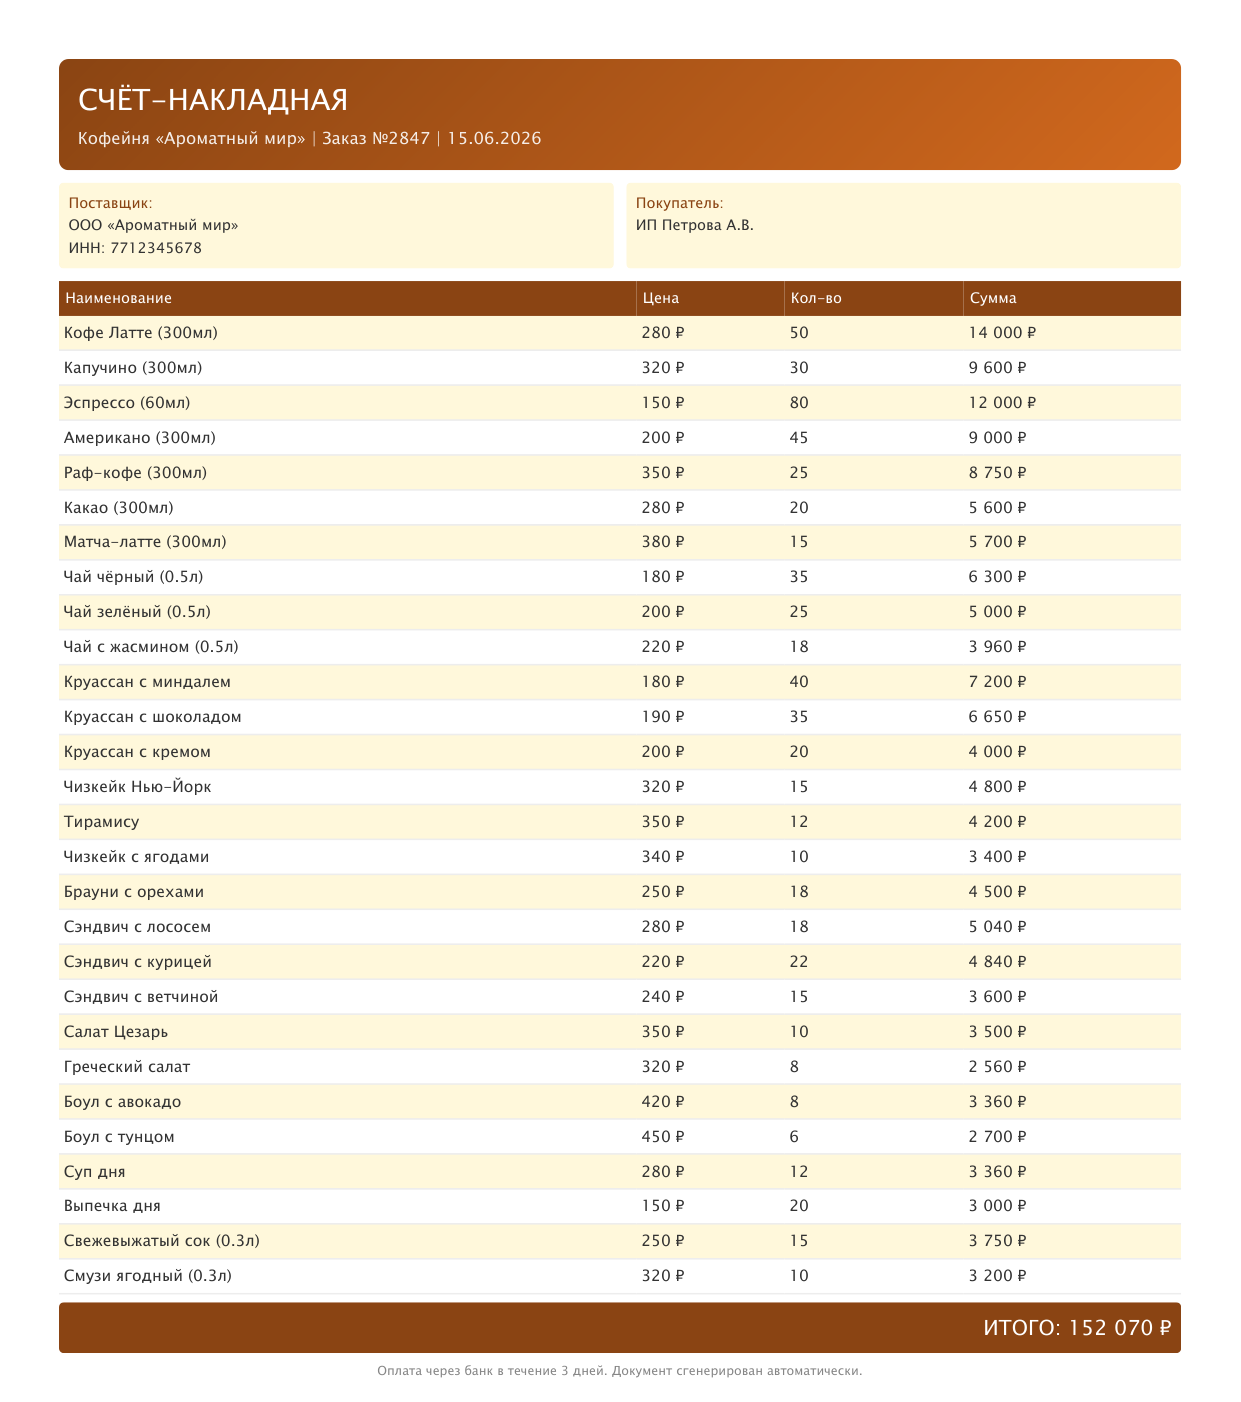
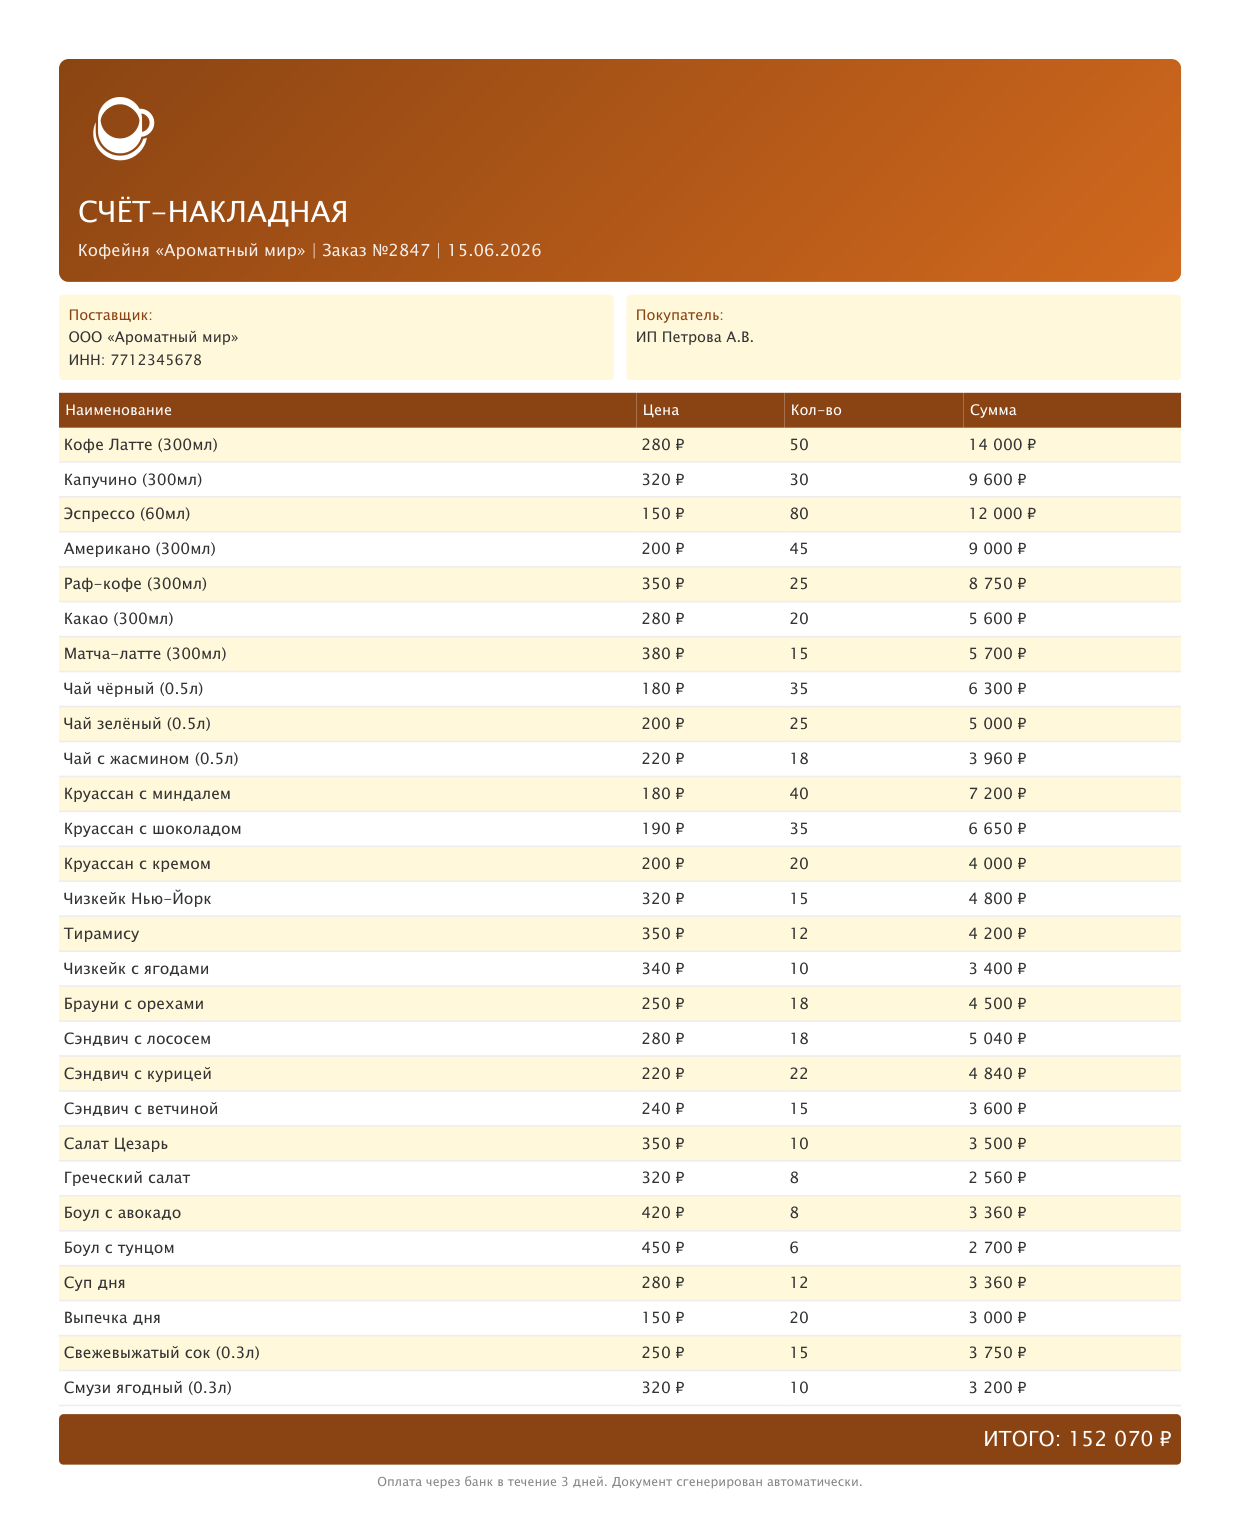
Возвращен логотип кофейни, исправлены отзывы

diff --git a/index.html b/index.html
@@ -424,13 +424,14 @@
                     Теперь — 20 минут. Заказчики в восторге от оформления, говорят — 
                     сразу видно профессионалов. Рекомендую!»
                 </blockquote>
-                <cite>— Алексей,.owner строительной компании «СтройДом»</cite>
+                <cite>— Алексей, владелец строительной компании «СтройДом»</cite>
             </div>
             <div class="testimonial-slide">
                 <blockquote>
-                    «Как IT-компания, мы делаем много договоров. 
-                    Автоматизация сэкономила нам 10 часов в неделю. 
-                    Клиенты получают красивые документы — и мы тоже. Спасибо!»
+                    «Раньше мы тратили по полдня на оформление договоров — 
+                    а это время, которое можно уделить разработке. 
+                    Сейчас генерирую за 2 минуты, и ошибок в суммах ноль. 
+                    Клиенты перестали придираться к документам — и мы тоже.»
                 </blockquote>
                 <cite>— Дмитрий, руководитель IT-компании «Цифровые решения»</cite>
             </div>
